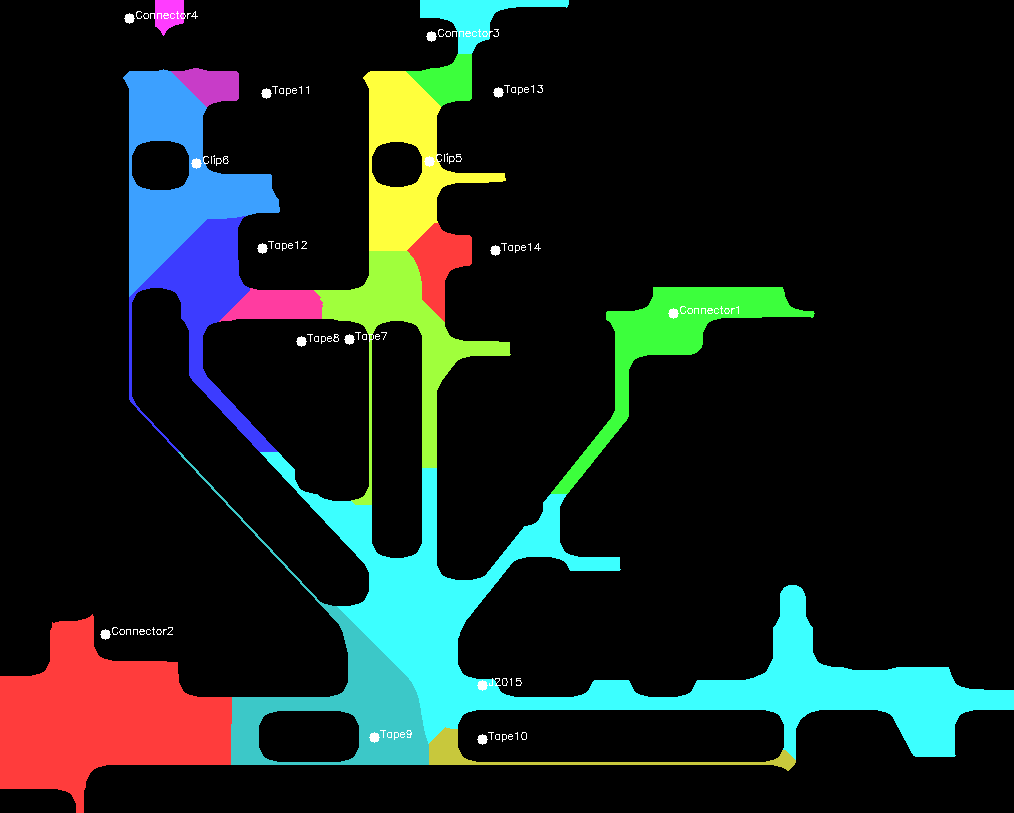
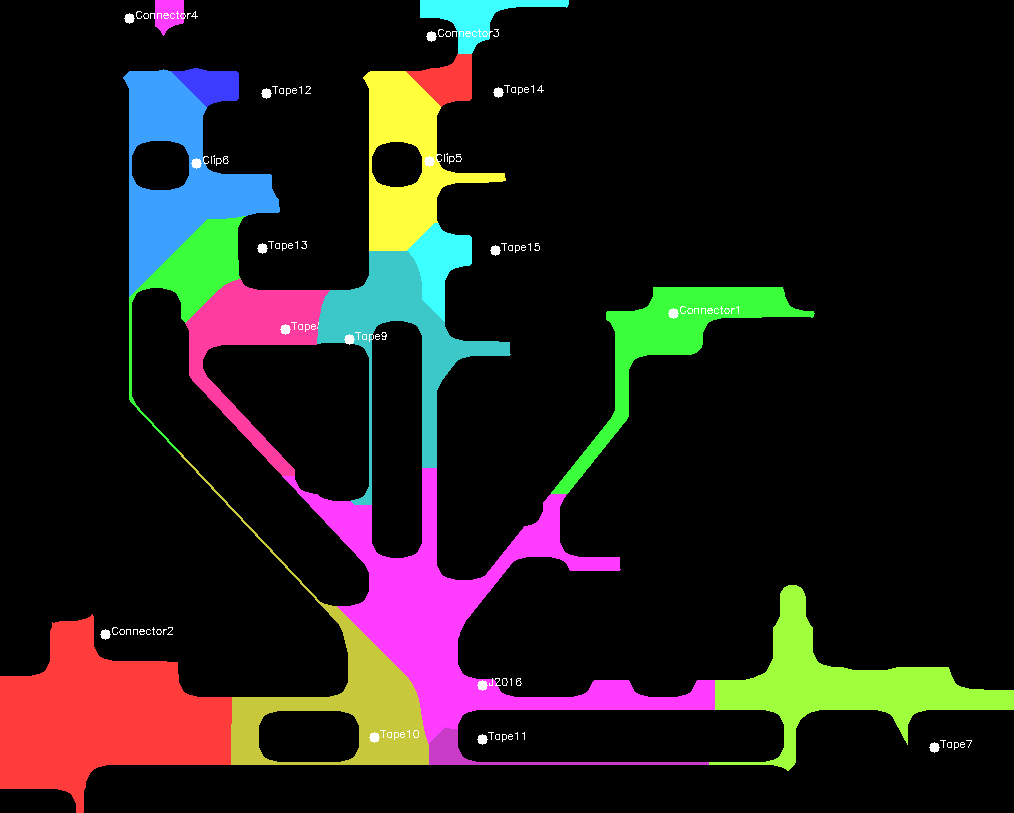
fixed notes

diff --git a/src/graph_builders/connectivity_builder.py b/src/graph_builders/connectivity_builder.py
@@ -647,6 +647,9 @@ def build_connectivity_graph_heuristic(tape_labels, connectors, clips, wires, le
             if txt_clean in nodes_dict:
                 continue
             if junction_pattern.match(txt_clean):
+                # Skip any MLC label that contains tape-type suffixes (VT, AT, COT) or '+' (OCR junk)
+                if '+' in txt_clean or any(suffix in txt_clean for suffix in ['VT', 'AT', 'COT']):
+                    continue
                 junction_count += 1
                 nodes_dict[txt_clean] = {
                     'x': int(x + w // 2),

diff --git a/src/detectors/tape_detector.py b/src/detectors/tape_detector.py
@@ -6,7 +6,7 @@ import numpy as np
 from src.detectors.ocr_detector import ocr_region , ocr_upscaled
 
 TAPE_PATTERNS = re.compile(
-    r'(VT)\s*-\s*[A-Z]{1,2}|MLC\w+', re.IGNORECASE)
+    r'(VT|AT)\s*-\s*[A-Z]{1,2}', re.IGNORECASE)
 
 TAPE_COLOR_BGR = {
     'VT-WH':  (  0,   0, 180),   # dark red

diff --git a/notes.md b/notes.md
@@ -9,7 +9,7 @@ Each component type is detected via a dedicated detector module in `src/detector
 | Component | Script | Detection Method | Key Libraries |
 |-----------|--------|------------------|----------------|
 | **Text** | `ocr_detector.py` | PaddleOCR with upscaling | PaddleOCR |
-| **Tape Labels** | `tape_detector.py` | OCR text matching + regex patterns (VT-*, AT-*, MLC*) | OpenCV, regex |
+| **Tape Labels** | `tape_detector.py` | OCR text matching + regex patterns (VT-*, AT-*) | OpenCV, regex |
 | **Connectors** | `connector_detector.py` | Shape detection (rectangles w/ internal lines) + OCR "DELPHI" | OpenCV contours |
 | **Blue Clips** | `clip_detector.py` | HSV blue mask + HoughCircles (circular shapes) | OpenCV HSV/circles |
 | **Wire Lengths** | `length_detector.py` | Numeric OCR pattern matching + outlier filtering | PaddleOCR, regex |
@@ -23,13 +23,14 @@ All detectors are orchestrated by `run_detector.py:main()` which sequentially ca
 
 ### OCR Text Detection
 
-**Current Method**: `ocr_full()` - Single-pass PaddleOCR with basic angle calculation
+**Primary Method**: `ocr_full()` - Single-pass PaddleOCR for general text tokens (connector labels, junction IDs, tape prefixes)
 
-**Alternative Method**: `ocr_full_lengths()` - Two-pass specialized OCR for numeric annotations
+**Complementary Specialized Pass**: `ocr_full_lengths()` - Runs alongside `ocr_full()` for numeric-only annotations
 - **Pass 1**: 480px tiles at 0° (horizontal text) — catches most numeric labels
 - **Pass 2**: 320px tiles at 11 rotation angles [30°, 45°, 60°, 75°, 90°, 115°, 130°, 270°, 315°, 345°, 330°]
 - **Technique**: Image tiling + 2x upscaling to avoid PaddleOCR internal downscaling
-- **Use case**: Numeric wire length annotations that appear at various angles
+- **Use case**: Wire length annotations that appear at various angles
+- **Integration**: Results merged into `detect_tape_labels()` and fed exclusively to `detect_wire_lengths()`
 
 **Additional Helper**: `ocr_region()` - OCR a specific bounding box crop (used for re-checking detected regions)
 
@@ -37,17 +38,18 @@ All detectors are orchestrated by `run_detector.py:main()` which sequentially ca
 
 ### Tape Label Detection
 
-**Current Method**: Multi-pass OCR-driven approach
-- **Pass 1**: Direct token matching — single OCR tokens matching TAPE_PATTERNS regex (VT-*, AT-*, MLC*)
-- **Pass 3**: Region re-OCR — re-OCR crops around detected VT/AT prefix tokens with 60px rightward expansion
-
-**Legacy Method** (commented out): **Pass 2 - Token Reconstruction**
-- Merges nearby OCR tokens: "VT" + "BK" → "VT-BK"
-- Proximity check: 60px horizontal gap, 15px vertical alignment
-- **Why disabled**: Generated false positives from unrelated nearby text
-- **Code location**: Lines 60-92 in `tape_detector.py` (commented block)
-
-**Deduplication**: Proximity-based within 30px center distance using label name
+**Current Method**: Multi-source OCR with targeted re-OCR
+1. **Token aggregation**: Merges tokens from `ocr_full()`, `ocr_full_lengths()`, and `ocr_upscaled()` (3x upscaling for small text)
+   - Deduplicates by 10px center proximity
+2. **Direct regex matching**: `TAPE_PATTERNS = (VT|AT)\s*-\s*[A-Z]{1,2}`
+   - Catches full labels in single tokens: `VT-BK`, `VT-WH`, `VT-PK`, `AT-BK`, etc.
+   - Matches optional whitespace around hyphens
+3. **Region re-OCR**: For any token matching `^VT$|^AT$|^VT-$|^AT-$`
+   - Crops grayscale ±60px rightward expansion
+   - Re-OCRs crop with `ocr_region()` to catch split/missing fragments
+   - **Example**: Bare `AT` token triggers re-OCR → recovers full `AT-BK` label
+   - **Note**: `COT-BK` requires full string in OCR (no prefix trigger for region re-OCR)
+4. **Deduplication**: Proximity-based within 30px center distance; same label → keep first occurrence
 
 ---
 
@@ -89,61 +91,46 @@ All detectors are orchestrated by `run_detector.py:main()` which sequentially ca
 - Criteria: aspect ratio < 4.0, fill ratio > 0.25, area 80-8000px
 - **Purpose**: Create mask to prevent wires from incorrectly snapping to component edges
 
-**Merging Philosophy**: Endpoint graph (adjacency list) with BFS instead of Union-Find
-- **Advantage**: Explicit edges show merge candidates clearly
-- **Debugging**: Graph structure directly visualizable
-- **Flexibility**: Easy to add/modify merge criteria
-- **Complexity**: O(n²) pairwise testing acceptable for typical 5-30 segments
+---
+## Running the Pipeline (`run.py`)
 
-### Validation Challenges
+### Phases (all modes)
 
-- Ground truth difficult to obtain (requires manual labeling)
-- Different interpretations of "correct" edge for same diagram
-- Cascading errors from earlier phases
+| Phase | Step | Description |
+|-------|------|-------------|
+| 1 | OCR | `ocr_full()` (general text) + `ocr_full_lengths()` (numeric annotations, 11 rotation angles) |
+| 2 | Detection | Tape labels, connectors, clips, wire lengths (each gated by extract filters) |
+| 3 | Connectivity | Wire mask or wire blob detection → graph building (see below) |
+| 4 | Output | `wiring_diagram_annotated.png` + `connectivity_graph.json` |
 
 ---
 
-## Debugging Tips
+### Default (no flags) — Mask-Tracer Pipeline
 
-### Wire Not Detected
-
-**Diagnostics**:
-```python
-# Check wire mask
-cv2.imshow('Wire Mask', wire_mask)
-
-# Check after dilation
-cv2.imshow('Dilated', dilated_mask)
-
-# Check CCL labels
-labels = cv2.connectedComponentsWithStats(dilated_mask)[1]
-cv2.imshow('CCL Labels', labels.astype(np.uint8) * 10)
-
-# Check filtering
-print(f"Segments before filtering: {num_labels}")
-print(f"Segments after filtering: {len(valid_segments)}")
-```
-
-**Common Causes**:
-1. Wire color not in mask range (adjust inversion threshold)
-2. Component masking too aggressive (increase erase margin)
-3. Dilation not bridging gaps (increase kernel size/iterations)
-4. Merged with adjacent wire (reduce angle/proximity thresholds)
-
-### Component Snapping Wrong
-
-**Diagnostics**:
-```python
-# Visualize component snap points
-cv2.circle(img, snap_point, 5, (0, 255, 0), -1)
-
-# Print snap distances
-print(f"Snap to node: {dist_to_node}px at {nearest_node}")
-```
-
-**Common Causes**:
-1. Snap distance threshold too large
-2. Component detection failed (check HSV/shape parameters)
-3. Graph has no nodes nearby (check phase 3 output)
+1. `create_wire_mask()` — binary mask of wire pixels with component regions erased
+2. `build_component_nodes()` — flat dict of connectors, clips, tapes, junctions
+3. `trace_mask_connectivity()` — morphological closing → CCL noise removal → seed each component → multi-source BFS flood → wherever two labels meet = connection
+4. `assign_wire_properties()` — attaches `wire_type` and `length_mm` to each edge (80px proximity to path polyline)
+5. `convert_to_legacy_format()` — converts NetworkX graph to reporter format
+6. **Fallback**: if BFS produces 0 edges, automatically runs heuristic pipeline
 
 ---
+
+### `--legacy` — Heuristic Pipeline
+
+1. `detect_wires()` — 5-phase blob detector (HSV+Canny → CCL → PCA endpoints → endpoint graph → BFS merge)
+2. `filter_wires_by_components()` — drops wires with endpoints > 50px from any component
+3. `build_connectivity_graph_heuristic()`:
+   - Pass 1: project tape labels onto wire segments (80px perpendicular corridor)
+   - Pass 2 (tape-anchor): pair nodes via angle heuristic (>60° separation, <650px)
+   - Supplemental hardcoded edges: J20→Connector-1, J20→MLC001, J20→X519
+
+---
+
+### `--extract-only=<items>` / `--skip=<items>`
+
+Valid items: `tapes`, `connectors`, `wires`, `lengths`, `clips`
+
+- `--extract-only=tapes,connectors` — disables all detectors except those listed
+- `--skip=clips,lengths` — disables only those detectors; all others run
+- Both flags are composable with `--legacy`
